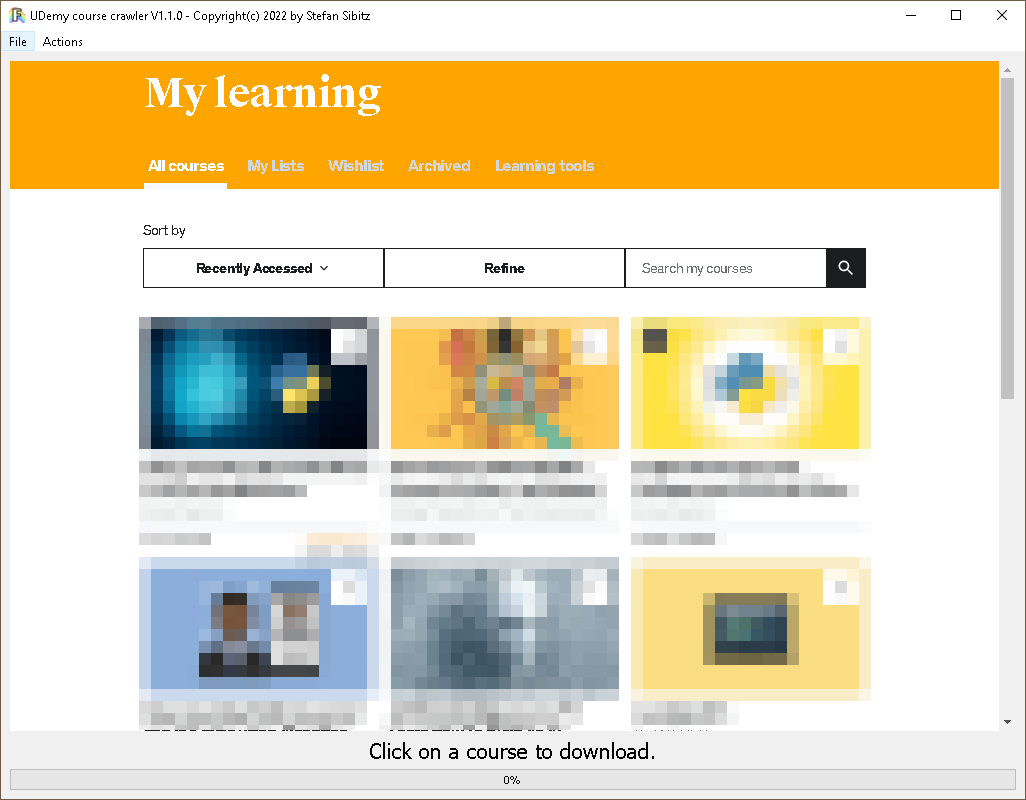
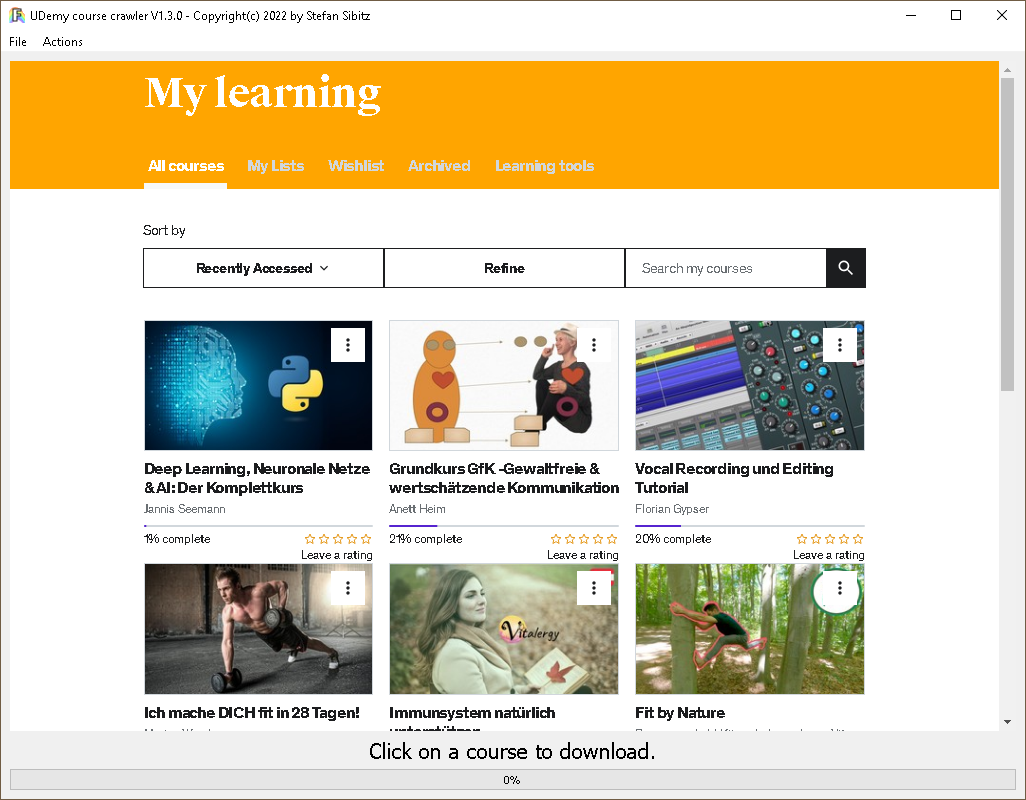
# Fixing FFMPEG in settings cause now automatically detected but no need to save in user settings file ! # Correcting title of combine videos dialog # Updated preview/images

Changed region(s): [[0.1248, 0.375, 0.8733, 0.9375], [0.9669, 0.4688, 0.9981, 0.5], [0.0, 0.0312, 0.0312, 0.0625]]

diff --git a/util_settings.py b/util_settings.py
@@ -121,7 +121,6 @@ class AppSettings(QDialog):
         self.cfg.StartOnMonitorNumber = int(self.cfgStartValue.currentData())
         self.cfg.DownloadPath = self.cfgDownValue.text()
         self.cfg.TempPath = self.cfgTempValue.text()
-        self.cfg.FFMPEGPath = self.cfgFFMPEGValue.text()
         self.cfg.DownloadCourseVideoAgain = self.cfgDownloadCourseVideoAgain.isChecked()
         self.cfg.DownloadCourseVideoCheckFileSize = self.cfgCheckFileSize.isChecked()
         self.cfg.SaveConfigs()
@@ -134,6 +133,8 @@ class AppSettings(QDialog):
 
 class Settings():
     def __init__(self):
+        # Use ffmpeg util to check if installed or not
+        self.ffmpeg_util = ffmpeg.FFMPEGUtil()
         # Set default values
         self.StartOnMonitorNumber = const.USR_CONFIG_START_ON_MONITOR_DEFAULT
         self.DownloadPath = const.USR_CONFIG_DOWNLOAD_PATH_DEFAULT
@@ -160,7 +161,11 @@ class Settings():
                                                                         const.USR_CONFIG_START_ON_MONITOR_DEFAULT))
         self.DownloadPath = self.settings.value(const.USR_CONFIG_DOWNLOAD_PATH, const.USR_CONFIG_DOWNLOAD_PATH_DEFAULT)
         self.TempPath = self.settings.value(const.USR_CONFIG_TEMP_PATH, const.USR_CONFIG_TEMP_PATH_DEFAULT)
-        self.FFMPEGPath = self.settings.value(const.USR_CONFIG_FFMPEG_PATH, const.USR_CONFIG_FFMPEG_PATH_DEFAULT)
+        self.FFMPEGPath = const.USR_CONFIG_FFMPEG_PATH_DEFAULT
+        # Check if FFMPEG ist available (as relative path)
+        if self.ffmpeg_util.Available():
+            path = const.AppResource("")
+            self.FFMPEGPath = os.path.relpath(self.ffmpeg_util.FFMPEGUtilFullPath(), path)
         self.DownloadCourseVideoAgain = self.valueToBool(
             self.settings.value(const.USR_CONFIG_DOWNLOAD_COURSE_AGAIN, const.USR_CONFIG_DOWNLOAD_COURSE_AGAIN_DEFAULT))
         self.DownloadCourseVideoCheckFileSize = self.valueToBool(
@@ -171,7 +176,6 @@ class Settings():
         self.settings.setValue(const.USR_CONFIG_START_ON_MONITOR, self.StartOnMonitorNumber)
         self.settings.setValue(const.USR_CONFIG_DOWNLOAD_PATH, self.DownloadPath)
         self.settings.setValue(const.USR_CONFIG_TEMP_PATH, self.TempPath)
-        self.settings.setValue(const.USR_CONFIG_FFMPEG_PATH, self.FFMPEGPath)
         self.settings.setValue(const.USR_CONFIG_DOWNLOAD_COURSE_AGAIN, self.DownloadCourseVideoAgain)
         self.settings.setValue(const.USR_CONFIG_DOWNLOAD_CHECK_FILESIZE, self.DownloadCourseVideoCheckFileSize)
         self.settings.sync()

diff --git a/util_ffmpeg.py b/util_ffmpeg.py
@@ -1,11 +1,21 @@
-import datetime as dt, glob, os, shlex, subprocess, time, traceback, zipfile, util_logging as log, \
-    util_constants as const, util_downloader as downloader, util_overview as overview, util_settings as settings
+import datetime as dt
+import glob
+import os
+import shlex
+import subprocess
+import time
+import traceback
+import util_constants as const
+import util_downloader as downloader
+import util_logging as log
+import util_overview as overview
+import util_settings as settings
+import zipfile
 from typing import Union
 from PySide2.QtCore import QThread, Signal, QSortFilterProxyModel
 from PySide2.QtGui import QIcon, Qt, QStandardItemModel, QStandardItem
 from PySide2.QtWidgets import QDialog, QDialogButtonBox, QVBoxLayout, QFormLayout, QLabel, QComboBox, QCompleter, \
     QMessageBox
-from UDemyCrawler import UDemyWebCrawler
 
 
 class ExtendedCombo(QComboBox):
@@ -56,7 +66,7 @@ class CourseSelection(QDialog):
 
     def initUI(self):
         # Title and icon
-        self.setWindowTitle("Settings")
+        self.setWindowTitle("Combining videos of a course into one single video")
         self.setWindowIcon(QIcon(const.AppIcon()))
         self.setGeometry(100, 100, 600, 50)
         # Save or cancel button

diff --git a/util_constants.py b/util_constants.py
@@ -28,7 +28,7 @@ FFMPEG_COMBINE_PARAMS = FFMPEG_TOOL_FILENAME + " -f concat -safe 0 -i " + FFMPEG
 
 # Application
 APP_NAME = "UDemyCrawler"
-APP_VERSION = "1.1.0"
+APP_VERSION = "1.3.0"
 APP_TITLE = f"UDemy course crawler V{APP_VERSION} - Copyright(c) 2022 by Stefan Sibitz"
 APP_LOGFILE_NAME = f"{APP_NAME}.log"
 APP_INIFILE_NAME = f"{APP_NAME}.ini"
